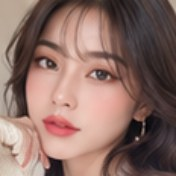
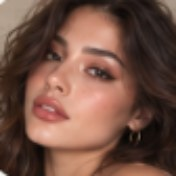
Beauty: 8 quick looks, model picker beside the AI buttons, no "advanced" link in the editor
- Quick looks: Tự nhiên, Sang chảnh, Latina Glam, K-Beauty, Selfie Glow, Clean Girl, Hollywood Glam,
  Glass Skin (new prompts and sample pictures of the same model)
- Nhanh and Phong cách show the AI model (and its cost) beside "Áp dụng ngay" / "Tạo bằng AI"
- The editor's Nhanh tab drops "Tùy chỉnh nâng cao": the free tools are the tabs above

diff --git a/src/editor/panels.tsx b/src/editor/panels.tsx
@@ -363,8 +363,8 @@ export type QuickBeauty = {
   onRun: () => void;
 };
 
-/** What the Làm đẹp tab opens on: one-tap looks and retouch tools; "Tùy chỉnh nâng cao" leads to the free tools. */
-function QuickBeautyPanel({ style, onStyle, selected, onToggle, onRun, onAdvanced }: QuickBeauty & { onAdvanced: () => void }) {
+/** What the Làm đẹp tab opens on: one-tap looks and retouch tools (the free tools are the other tabs). */
+function QuickBeautyPanel({ style, onStyle, selected, onToggle, onRun }: QuickBeauty) {
   const t = useT();
   const nothing = !style && !selected.length;
   return (
@@ -389,20 +389,28 @@ function QuickBeautyPanel({ style, onStyle, selected, onToggle, onRun, onAdvance
       </HScroll>
       <View style={styles.quickHead}>
         <Text style={styles.quickTitle}>{t('retouch.quick')}</Text>
-        <Pressable onPress={onAdvanced} style={styles.advanced} hitSlop={6}>
-          <Text style={styles.advancedText}>{t('retouch.advanced')}</Text>
-          <Ionicons name="arrow-forward" size={13} color={colors.goldDeep} />
-        </Pressable>
       </View>
       <ToolRow>
         {retouchOptions.map((o) => (
           <RetouchToolCard key={o.id} id={o.id} size={54} active={selected.includes(o.id)} onPress={() => onToggle(o.id)} />
         ))}
       </ToolRow>
-      <Pressable disabled={nothing} onPress={onRun} style={({ pressed }) => [styles.applyNow, (pressed || nothing) && { opacity: 0.55 }]}>
+      <AiRunRow label={t('retouch.applyNow')} disabled={nothing} onRun={onRun} />
+    </View>
+  );
+}
+
+/** The AI model to use (and its cost) beside the big gold button that runs it. */
+function AiRunRow({ label, disabled, onRun }: { label: string; disabled: boolean; onRun: () => void }) {
+  return (
+    <View style={styles.aiRunRow}>
+      <ModelChip compact />
+      <Pressable disabled={disabled} onPress={onRun} style={({ pressed }) => [styles.applyNow, (pressed || disabled) && { opacity: 0.55 }]}>
         <LinearGradient colors={goldGradient} start={{ x: 0, y: 0 }} end={{ x: 1, y: 1 }} style={styles.applyNowFill}>
           <Ionicons name="sparkles" size={16} color={colors.onGold} />
-          <Text style={styles.applyNowText}>{t('retouch.applyNow')}</Text>
+          <Text numberOfLines={1} style={styles.applyNowText}>
+            {label}
+          </Text>
         </LinearGradient>
       </Pressable>
     </View>
@@ -500,12 +508,7 @@ function StyleLookPanel({ picks, onPick, onRun }: StyleLook) {
           );
         })}
       </HScroll>
-      <Pressable disabled={nothing} onPress={onRun} style={({ pressed }) => [styles.applyNow, (pressed || nothing) && { opacity: 0.55 }]}>
-        <LinearGradient colors={goldGradient} start={{ x: 0, y: 0 }} end={{ x: 1, y: 1 }} style={styles.applyNowFill}>
-          <Ionicons name="sparkles" size={16} color={colors.onGold} />
-          <Text style={styles.applyNowText}>{t('beauty.style.run')}</Text>
-        </LinearGradient>
-      </Pressable>
+      <AiRunRow label={t('beauty.style.run')} disabled={nothing} onRun={onRun} />
     </>
   );
 }
@@ -588,13 +591,7 @@ export function BeautyPanel({
     return (
       <View style={styles.colTight}>
         {tabs}
-        <QuickBeautyPanel
-          {...quick}
-          onAdvanced={() => {
-            onMode('free');
-            onTool(freeCards[group][0].id);
-          }}
-        />
+        <QuickBeautyPanel {...quick} />
       </View>
     );
   if (mode === 'style')
@@ -959,7 +956,7 @@ const styles = StyleSheet.create({
   colTight: { gap: 10 },
   lookRow: { paddingHorizontal: 10, gap: 2 },
   lookIcon: { alignItems: 'center', justifyContent: 'center' },
-  look: { width: 76, alignItems: 'center', gap: 3, padding: 2, borderRadius: 13, borderWidth: 1.5, borderColor: 'transparent' },
+  look: { width: 90, alignItems: 'center', gap: 3, padding: 2, borderRadius: 13, borderWidth: 1.5, borderColor: 'transparent' },
   lookActive: { borderColor: ec.gold, backgroundColor: ec.goldSoft },
   lookImg: { width: 56, height: 56, borderRadius: 10, backgroundColor: ec.surface2 },
   lookCheck: {
@@ -976,9 +973,8 @@ const styles = StyleSheet.create({
   lookName: { fontFamily: font.medium, fontSize: 10, color: ec.text },
   quickHead: { flexDirection: 'row', alignItems: 'center', justifyContent: 'space-between', paddingHorizontal: 14, marginBottom: -4 },
   quickTitle: { fontFamily: font.serif, fontSize: 16, color: ec.text },
-  advanced: { flexDirection: 'row', alignItems: 'center', gap: 4, paddingHorizontal: 10, paddingVertical: 4, borderRadius: 999, borderWidth: 1, borderColor: ec.gold },
-  advancedText: { fontFamily: font.medium, fontSize: 12, color: colors.goldDeep },
-  applyNow: { marginHorizontal: 14 },
+  aiRunRow: { flexDirection: 'row', alignItems: 'center', gap: 10, paddingHorizontal: 14 },
+  applyNow: { flex: 1 },
   applyNowFill: { flexDirection: 'row', alignItems: 'center', justifyContent: 'center', gap: 8, borderRadius: 14, paddingVertical: 11 },
   applyNowText: { fontFamily: font.semi, fontSize: 15, color: colors.onGold },
   modeRow: { flexDirection: 'row', gap: 8, paddingHorizontal: 14 },

diff --git a/src/ModelPicker.tsx b/src/ModelPicker.tsx
@@ -59,7 +59,17 @@ export function ModelSheet({ visible, onClose }: { visible: boolean; onClose: ()
 }
 
 /** Small pill showing the current model; tapping it opens the picker. */
-export function ModelChip({ style, dark }: { style?: StyleProp<ViewStyle>; /** For the dark editor. */ dark?: boolean }) {
+export function ModelChip({
+  style,
+  dark,
+  compact,
+}: {
+  style?: StyleProp<ViewStyle>;
+  /** For the dark editor. */
+  dark?: boolean;
+  /** Without the "Model:" label, beside a wide button. */
+  compact?: boolean;
+}) {
   const t = useT();
   const [model] = useAiModel();
   const [open, setOpen] = useState(false);
@@ -70,7 +80,8 @@ export function ModelChip({ style, dark }: { style?: StyleProp<ViewStyle>; /** F
       <Pressable onPress={() => setOpen(true)} style={({ pressed }) => [styles.chip, style, pressed && { opacity: 0.7 }]}>
         <Ionicons name="hardware-chip-outline" size={14} color={colors.gold} />
         <Text style={[styles.chipText, dark && { color: '#A8A097' }]}>
-          {t('model.chip')} <Text style={[styles.chipStrong, dark && { color: '#F4EFE7' }]}>{info?.name ?? model}</Text>
+          {compact ? '' : `${t('model.chip')} `}
+          <Text style={[styles.chipStrong, dark && { color: '#F4EFE7' }]}>{info?.name ?? model}</Text>
           {info ? ` · ${t('common.points', { n: pointsFor(plan, info.id) })}` : ''}
         </Text>
         <Ionicons name="chevron-down" size={14} color={colors.textSoft} />

diff --git a/src/photos.ts b/src/photos.ts
@@ -28,12 +28,15 @@ const models = {
   modelVanity: require('../assets/images/models/vanity.jpg'),
   modelPeace: require('../assets/images/models/peace.jpg'),
   modelWhite: require('../assets/images/models/white.jpg'),
-  // The Retouch looks (Natural, Sang chảnh, Latina glam, Hàn Quốc, Selfie sáng da): 176 px face squares.
+  // The Retouch looks (Tự nhiên … Glass Skin, see retouchStyles): 176 px face squares of the same model.
   lookNatural: require('../assets/images/looks/natural.jpg'),
   lookLuxe: require('../assets/images/looks/luxe.jpg'),
   lookLatina: require('../assets/images/looks/latina.jpg'),
   lookKorean: require('../assets/images/looks/korean.jpg'),
   lookBright: require('../assets/images/looks/bright.jpg'),
+  lookClean: require('../assets/images/looks/clean.jpg'),
+  lookHollywood: require('../assets/images/looks/hollywood.jpg'),
+  lookGlass: require('../assets/images/looks/glass.jpg'),
 } as const;
 
 export type ScenePhotoKey = keyof typeof scenes;

diff --git a/src/ai/retouch.ts b/src/ai/retouch.ts
@@ -82,6 +82,21 @@ export const retouchStyles = [
     prompt: 'a bright selfie look: brighter, luminous, glowing skin and a clean bright exposure',
     lightens: true,
   },
+  {
+    id: 'clean',
+    photo: 'lookClean',
+    prompt: 'a "clean girl" look: fresh, healthy, dewy skin, brushed-up natural brows, a soft flush on the cheeks and glossy nude lips, effortless and minimal',
+  },
+  {
+    id: 'hollywood',
+    photo: 'lookHollywood',
+    prompt: 'a classic Hollywood glam look: flawless luminous skin, soft sculpted contour, winged eyeliner, full lashes and elegant warm red-nude lips, flattering warm studio light',
+  },
+  {
+    id: 'glass',
+    photo: 'lookGlass',
+    prompt: 'a glass-skin look: ultra-smooth, clear, even, translucent-looking skin with a dewy reflective glow on the cheekbones, nose and forehead, with minimal makeup',
+  },
 ] as const;
 
 export type RetouchStyleId = (typeof retouchStyles)[number]['id'];

diff --git a/src/i18n/locales/vi.ts b/src/i18n/locales/vi.ts
@@ -773,11 +773,14 @@ const vi = {
   'retouch.waist': 'Eo thon',
   'retouch.legs': 'Chân dài',
   'retouch.acne': 'Xóa mụn',
-  'retouch.style.natural': 'Natural',
+  'retouch.style.natural': 'Tự nhiên',
   'retouch.style.luxe': 'Sang chảnh',
-  'retouch.style.latina': 'Latina glam',
-  'retouch.style.korean': 'Hàn Quốc',
-  'retouch.style.bright': 'Selfie sáng da',
+  'retouch.style.latina': 'Latina Glam',
+  'retouch.style.korean': 'K-Beauty',
+  'retouch.style.bright': 'Selfie Glow',
+  'retouch.style.clean': 'Clean Girl',
+  'retouch.style.hollywood': 'Hollywood Glam',
+  'retouch.style.glass': 'Glass Skin',
   'retouch.quick': 'Làm đẹp nhanh',
   'retouch.advanced': 'Tùy chỉnh nâng cao',
   'retouch.applyNow': 'Áp dụng ngay',

diff --git a/src/i18n/locales/ru.ts b/src/i18n/locales/ru.ts
@@ -755,6 +755,9 @@ const ru: Messages = {
   'retouch.style.latina': 'Латина-глэм',
   'retouch.style.korean': 'Корейский',
   'retouch.style.bright': 'Светлое селфи',
+  'retouch.style.clean': 'Clean Girl',
+  'retouch.style.hollywood': 'Голливуд',
+  'retouch.style.glass': 'Стеклянная кожа',
   'retouch.quick': 'Быстрая красота',
   'retouch.advanced': 'Расширенные',
   'retouch.applyNow': 'Применить',

diff --git a/src/i18n/locales/ja.ts b/src/i18n/locales/ja.ts
@@ -755,6 +755,9 @@ const ja: Messages = {
   'retouch.style.latina': 'ラティーナ',
   'retouch.style.korean': '韓国風',
   'retouch.style.bright': '美白セルフィー',
+  'retouch.style.clean': 'クリーンガール',
+  'retouch.style.hollywood': 'ハリウッド',
+  'retouch.style.glass': 'ガラス肌',
   'retouch.quick': 'クイック美肌',
   'retouch.advanced': '詳細設定',
   'retouch.applyNow': '今すぐ適用',

diff --git a/src/i18n/locales/es.ts b/src/i18n/locales/es.ts
@@ -755,6 +755,9 @@ const es: Messages = {
   'retouch.style.latina': 'Latina glam',
   'retouch.style.korean': 'Coreano',
   'retouch.style.bright': 'Selfie luminosa',
+  'retouch.style.clean': 'Clean Girl',
+  'retouch.style.hollywood': 'Glam Hollywood',
+  'retouch.style.glass': 'Piel de cristal',
   'retouch.quick': 'Belleza rápida',
   'retouch.advanced': 'Ajustes avanzados',
   'retouch.applyNow': 'Aplicar ahora',

diff --git a/src/i18n/locales/pt.ts b/src/i18n/locales/pt.ts
@@ -755,6 +755,9 @@ const pt: Messages = {
   'retouch.style.latina': 'Latina glam',
   'retouch.style.korean': 'Coreano',
   'retouch.style.bright': 'Selfie iluminada',
+  'retouch.style.clean': 'Clean Girl',
+  'retouch.style.hollywood': 'Glam Hollywood',
+  'retouch.style.glass': 'Pele de vidro',
   'retouch.quick': 'Beleza rápida',
   'retouch.advanced': 'Ajustes avançados',
   'retouch.applyNow': 'Aplicar agora',

diff --git a/src/i18n/locales/ko.ts b/src/i18n/locales/ko.ts
@@ -755,6 +755,9 @@ const ko: Messages = {
   'retouch.style.latina': '라티나 글램',
   'retouch.style.korean': '코리안',
   'retouch.style.bright': '화사한 셀카',
+  'retouch.style.clean': '클린걸',
+  'retouch.style.hollywood': '할리우드',
+  'retouch.style.glass': '물광 피부',
   'retouch.quick': '빠른 보정',
   'retouch.advanced': '고급 설정',
   'retouch.applyNow': '바로 적용',

diff --git a/src/i18n/locales/fr.ts b/src/i18n/locales/fr.ts
@@ -755,6 +755,9 @@ const fr: Messages = {
   'retouch.style.latina': 'Latina glam',
   'retouch.style.korean': 'Coréen',
   'retouch.style.bright': 'Selfie lumineux',
+  'retouch.style.clean': 'Clean Girl',
+  'retouch.style.hollywood': 'Glam Hollywood',
+  'retouch.style.glass': 'Peau de verre',
   'retouch.quick': 'Beauté rapide',
   'retouch.advanced': 'Réglages avancés',
   'retouch.applyNow': 'Appliquer',

diff --git a/src/i18n/locales/de.ts b/src/i18n/locales/de.ts
@@ -755,6 +755,9 @@ const de: Messages = {
   'retouch.style.latina': 'Latina Glam',
   'retouch.style.korean': 'Koreanisch',
   'retouch.style.bright': 'Helles Selfie',
+  'retouch.style.clean': 'Clean Girl',
+  'retouch.style.hollywood': 'Hollywood-Glam',
+  'retouch.style.glass': 'Glass Skin',
   'retouch.quick': 'Schnelle Schönheit',
   'retouch.advanced': 'Erweitert',
   'retouch.applyNow': 'Jetzt anwenden',
